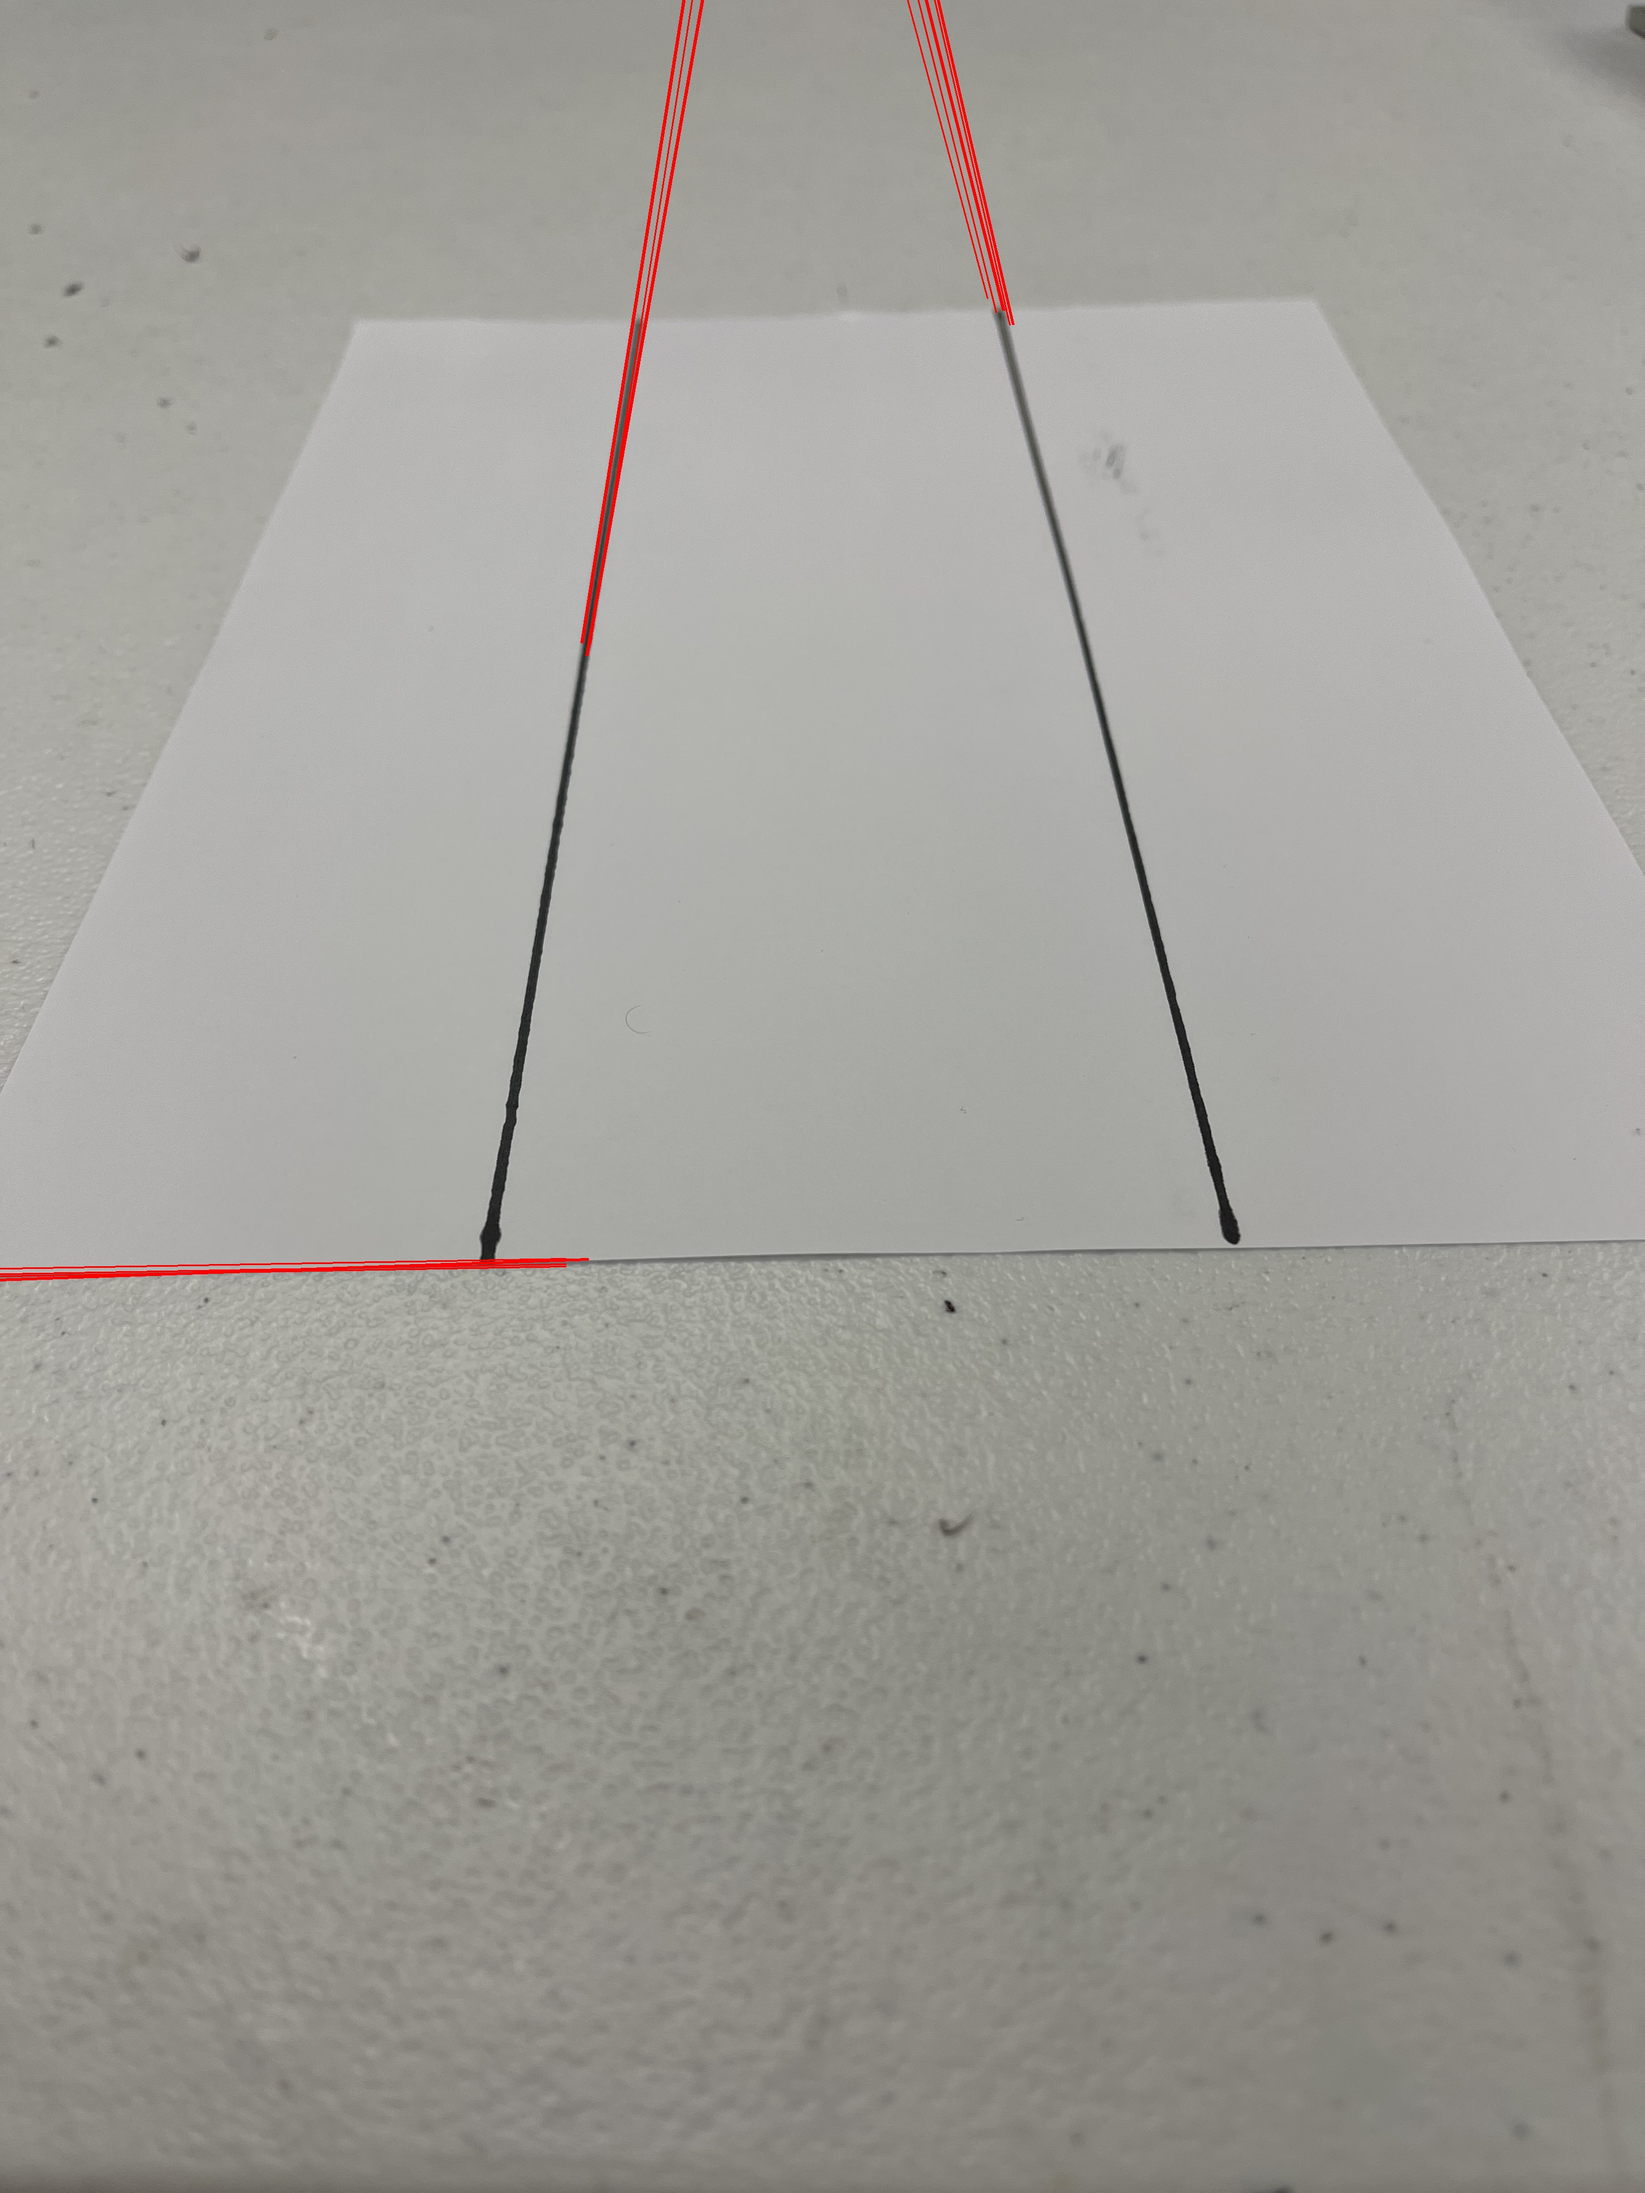
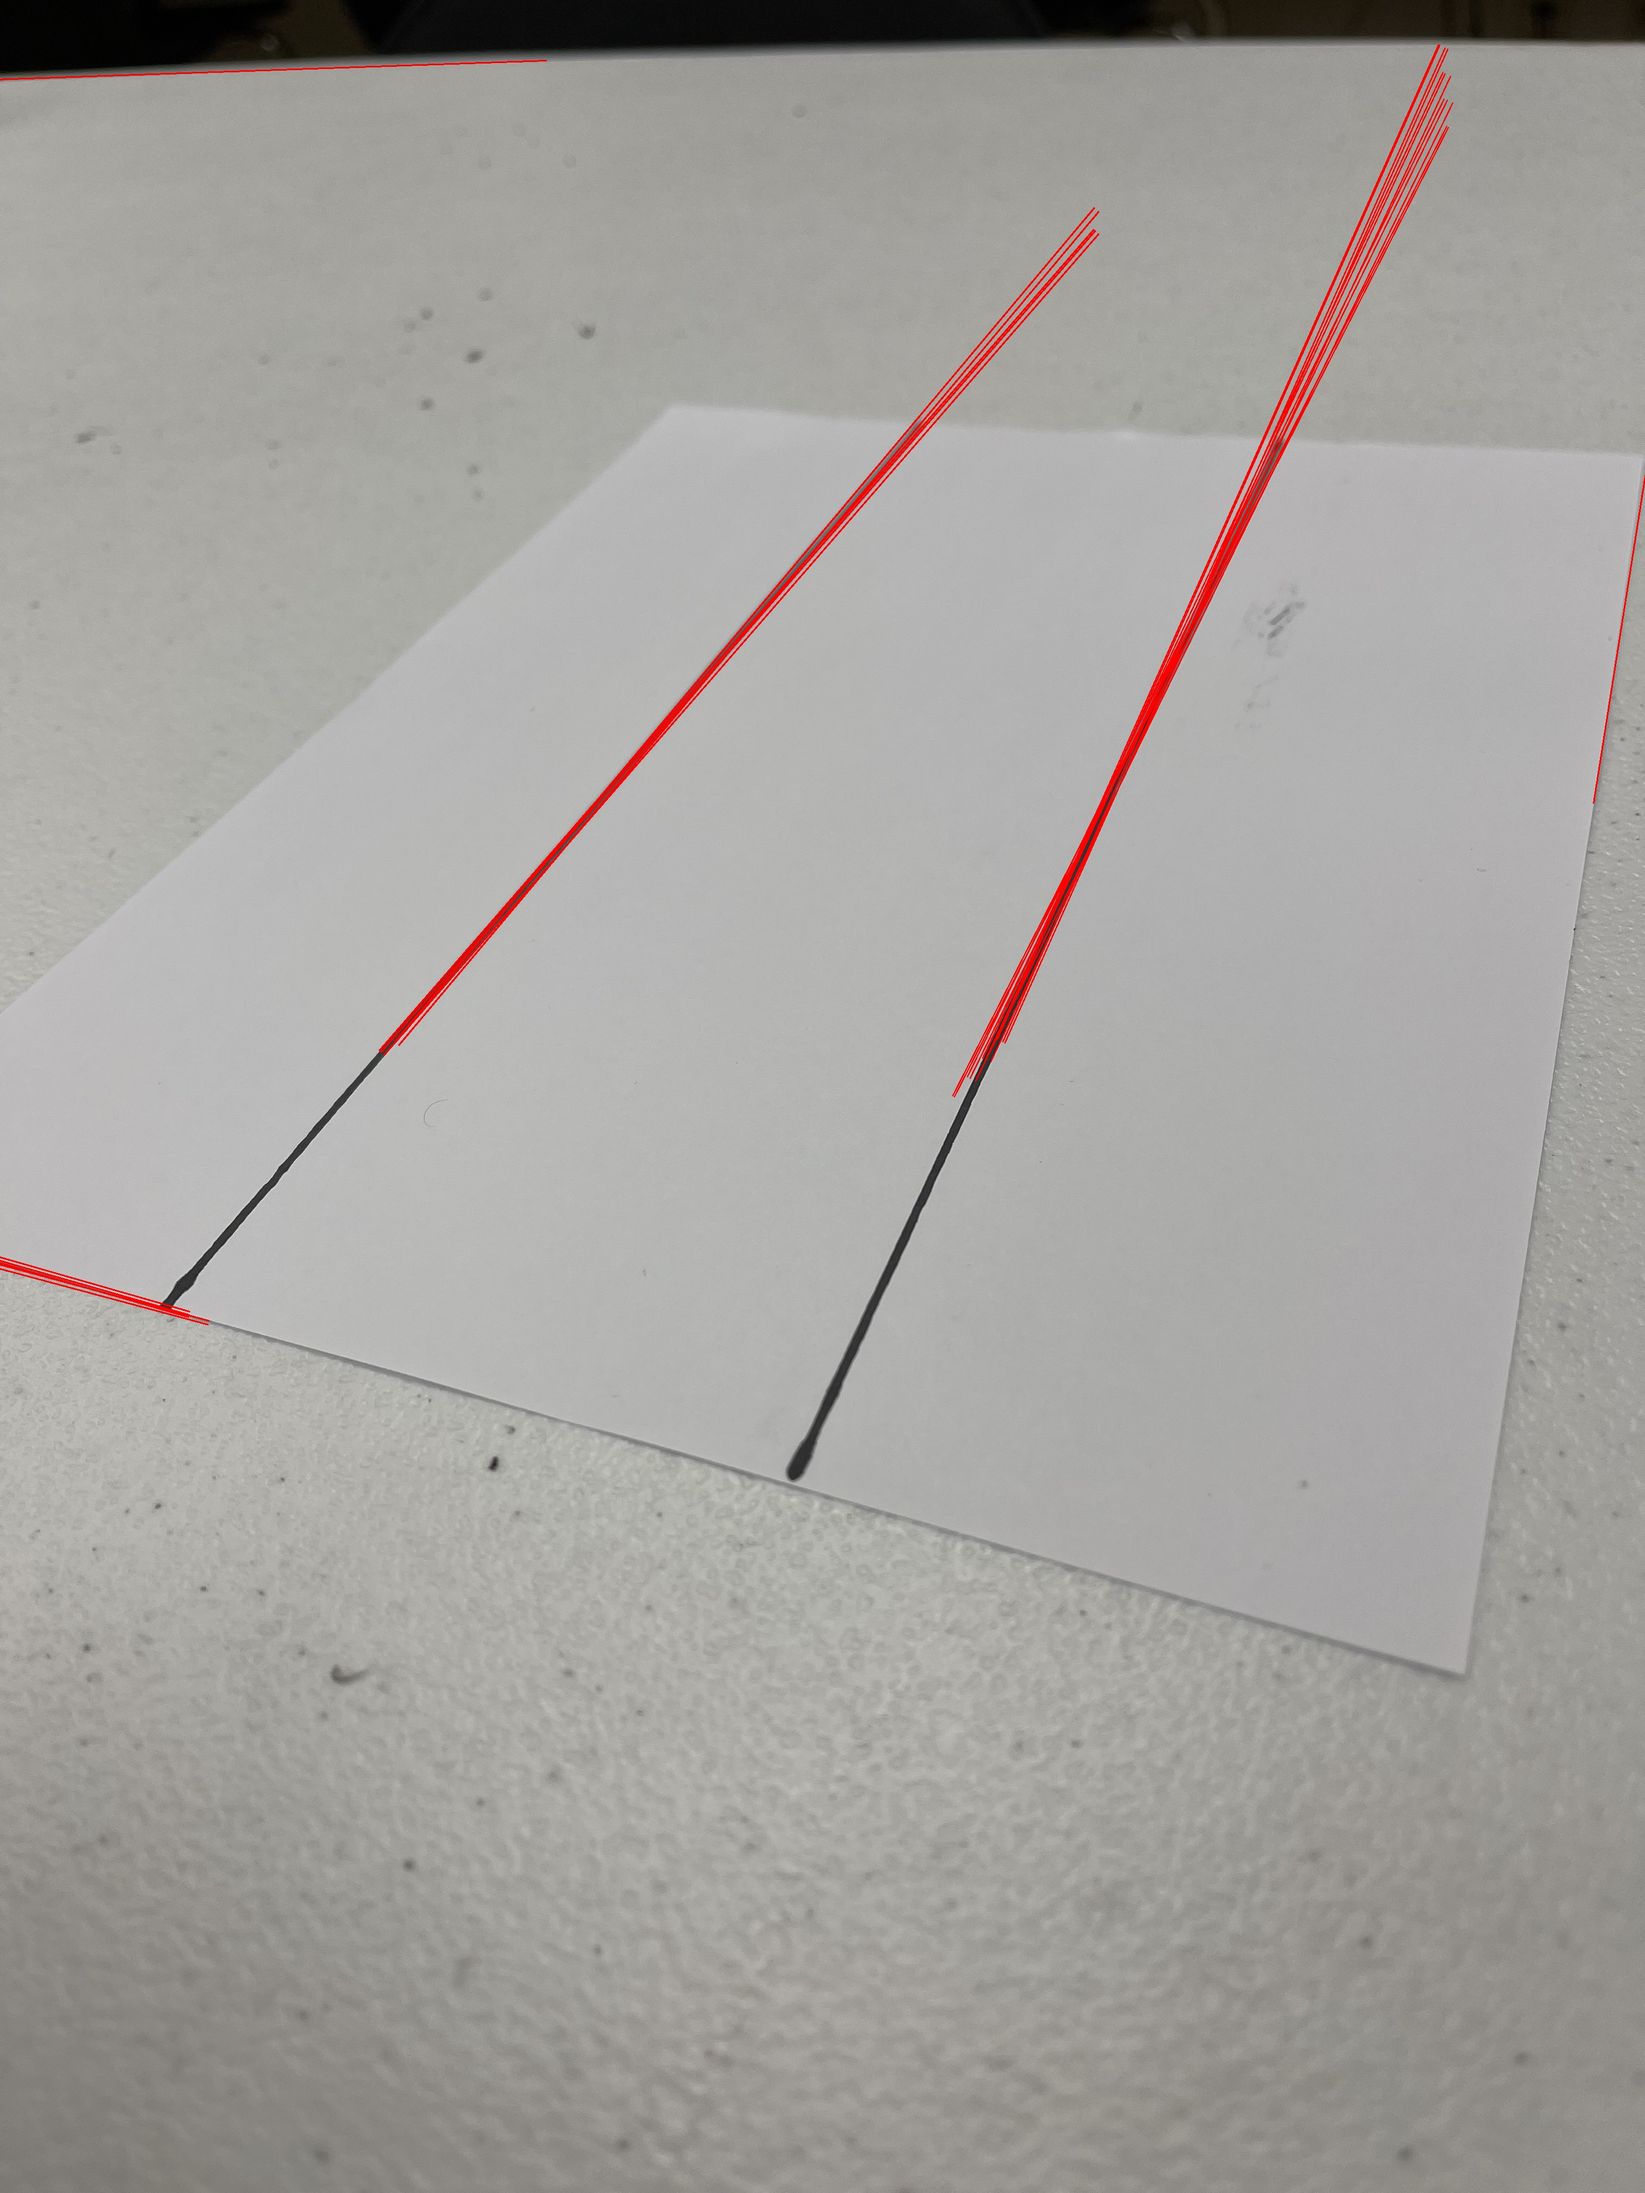
hi

diff --git a/laslinias.py b/laslinias.py
@@ -2,13 +2,13 @@ import cv2
 import numpy as np
 
 
-img = cv2.imread('IMG-1199.jpg')
+img = cv2.imread('IMG-1198.jpg')
 
 onegray = cv2.cvtColor(img, cv2.COLOR_BGR2GRAY)
 edges = cv2.Canny(onegray, 50, 150, apertureSize=3)
 lines = cv2.HoughLines(edges, 1, np.pi/ 180, 200)
 
-dist = []
+far = []
 sum = 0
 
 for r_theta in lines:
@@ -23,6 +23,9 @@ for r_theta in lines:
     x2 = int(x0 - 1000 * (-b))
     y2 = int(y0 - 1000 * (a))
     cv2.line(img, (x1, y1), (x2, y2), (0, 0, 255), 2)
+
+mid = int(sum/len(far))
+mid = cv2.line(img, (mid, 180), (mid, 1000), (0, 0, 255), 2)
 
 cv2.imwrite('linesDetected.jpg', img)
 
